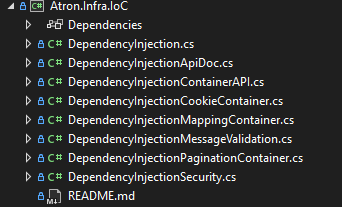
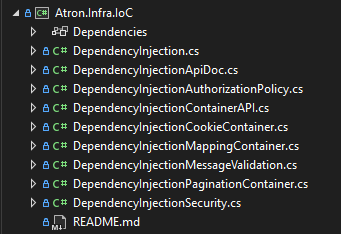
DOC: Correção das documentações e simplificação para facilitar a leitura

diff --git a/Framework/Communication/README.md b/Framework/Communication/README.md
@@ -1,58 +1,22 @@
 # Projeto Communication
 
 O projeto **Communication** é responsável por gerenciar a comunicação com APIs externas
-<br> e por lidar com o tratamento de respostas de APIs. <br>
+e por lidar com o tratamento de respostas de APIs.
+
 Ele é estruturado em diferentes pastas, cada uma com responsabilidades específicas para manter a modularidade e clareza do código.
 
-## Estrutura do Projeto
+## Estrutura de Pastas
 
-### 1. Extensions
-Contém classes de métodos de extensão que auxiliam na manipulação de dados de resposta da API.
+* **`Interfaces`:** pastas que define os contratos que serão acessados por outros projetos
 
-- **CommunicationExtensions.cs**: Classe que contém métodos de extensão para manipular listas de respostas da API. <br>
-<br> Exemplo de método:
-  - `HasErrors()`: Verifica se a lista de respostas contém algum erro.
+<br>
 
-### 2. Interfaces
-Define contratos para a comunicação e operações da API. A pasta está dividida em duas subpastas:
+* **`Models`:** Define os modelos que serão utilizados nos processos de comunicação
 
-#### a. Interfaces/Services
-Contém a interface para serviços de comunicação que lidam com as respostas da API.
+<br>
 
-- **ICommunicationService.cs**: Define métodos para adicionar e obter conteúdos de resposta da API. <br>
-<br> Métodos principais incluem:
-  - `AddResponseContent(ResultResponseDTO resultResponse)`: Adiciona uma resposta.
-  - `AddResponseContent(List<ResultResponseDTO> resultResponses)`: Adiciona múltiplas respostas.
-  - `GetResultResponses()`: Retorna todas as respostas armazenadas.
+* **`Security`:**  Define as classes de segurança para tokenização, autenticação e autorização
 
-#### b. Interfaces
-Contém interfaces que lidam com operações do cliente da API.
+<br>
 
-- **IApiClient.cs**: Define operações básicas para interagir com APIs usando diferentes verbos HTTP:
-  - `GetAsync(string uri)`: Executa uma operação de GET.
-  - `PostAsync(string uri, string content)`: Executa uma operação de POST.
-  - `PutAsync(string uri, string parameter, string content)`: Executa uma operação de PUT.
-  - `DeleteAsync(string uri, string codigo)`: Executa uma operação de DELETE.
-
-### 3. Models
-Contém classes que representam modelos de comunicação com a API.
-
-- **ApiClient.cs**: Implementa a interface `IApiClient` e gerencia a lógica de comunicação HTTP com a API, incluindo serialização de respostas e tratamento de exceções. <br>
-<br> Principais métodos implementados:
-  - `GetAsync()`, `PostAsync()`, `PutAsync()`, `DeleteAsync()`: Para operações CRUD.
-  - `FillResultResponse(HttpResponseMessage response)`: Método auxiliar para preencher respostas a partir de respostas HTTP.
-
-### 4. Services
-Implementações concretas dos serviços que gerenciam a comunicação e o tratamento de respostas da API.
-
-- **CommunicationService.cs**: Implementa a interface `ICommunicationService`. Esta classe é responsável por gerenciar a lista de respostas de uma API, incluindo métodos para adicionar novas respostas e obter a lista completa de respostas. <br>
-<br> Métodos principais:
-  - `AddResponseContent(ResultResponseDTO resultResponse)`: Adiciona uma única resposta à lista.
-  - `AddResponseContent(List<ResultResponseDTO> resultResponses)`: Adiciona uma lista de respostas.
-  - `GetResultResponses()`: Retorna todas as respostas armazenadas.
-
-## Resumo
-
-A arquitetura do projeto **Communication** está organizada em termos de separação de responsabilidades. As interfaces definem os contratos para os serviços de comunicação e operações da API, enquanto as implementações nas pastas `Services` e `Models` lidam com a lógica de negócios concreta. A utilização de métodos de extensão em `Extensions` oferece funcionalidade adicional para o gerenciamento de respostas de API.
-
-Essa estrutura modular facilita a manutenção e a expansão do código, garantindo que novas funcionalidades possam ser adicionadas sem impactar significativamente o sistema existente.
+* **`Services`:** Define os serviços que serão implementados pelos contratos

diff --git a/Framework/ExternalServices/README.md b/Framework/ExternalServices/README.md
@@ -3,82 +3,12 @@
 O projeto `External Services` é responsável pela implementação de serviços externos para manipulação dos módulos.
 As interfaces definem os contratos e os serviços implementam a lógica de integração com APIs externas.
 
-## Estrutura do Projeto
+Esse projeto depende das interfaces disponibilizadas pelo projeto _Communication_.
 
-### Interfaces
+## Estrutura de Pastas
 
-#### 1. `IApiRouteExternalService`
+* **`Interfaces`:**  Interfaces genéricas para comunicação com o projeto de Web Api e Web View do Razor
 
-- **Descrição**: Interface dos processos e fluxos do módulo de rotas da API.
-- **Métodos**:
-  - `Cadastrar(ApiRoute route, string rotaDoConnect)`: Método para cadastrar uma rota.
-  - `ObterRotas(string rotaPrincipal)`: Método para obter todas as rotas.
-
-#### 2. `IExternalMessageService`
-
-- **Descrição**: Interface de acesso ao serviço de mensagens externas.
-- **Propriedades**:
-  - `List<ResultResponseDTO> ResultResponses`: Lista de respostas de resultados.
-
-#### 3. `ICargoExternalService`
-
-- **Descrição**: Interface dos processos e fluxos do módulo de Cargos.
-- **Métodos**:
-  - `Atualizar(string codigo, CargoDTO cargoDTO)`: Atualiza um cargo existente.
-  - `Criar(CargoDTO cargoDTO)`: Cria um novo cargo.
-  - `ObterTodos()`: Obtém todos os cargos.
-  - `Remover(string codigo)`: Remove um cargo por código.
-
-#### 4. `IDepartamentoExternalService`
-
-- **Descrição**: Interface dos processos e fluxos do módulo de Departamentos.
-- **Métodos**:
-  - `ObterTodos()`: Obtém todos os departamentos.
-  - `Criar(DepartamentoDTO departamento)`: Cria um novo departamento.
-  - `Atualizar(string codigo, DepartamentoDTO departamentoDTO)`: Atualiza um departamento existente.
-  - `Remover(string codigo)`: Remove um departamento por código.
-
-#### 5. `IUsuarioExternalService`
-
-- **Descrição**: Interface dos processos e fluxos do módulo de Usuários.
-- **Métodos**:
-  - `Criar(UsuarioDTO usuarioDTO)`: Cria um novo usuário.
-  - `ObterTodos()`: Obtém todos os usuários.
-
-### Implementações de Serviços
-
-#### 1. `ApiRouteExternalService`
-
-- **Descrição**: Implementação dos processos do módulo de rotas da API.
-- **Métodos**:
-  - `Cadastrar(ApiRoute route, string rotaDoConnect)`: Serializa a rota e faz uma requisição POST para cadastrar.
-  - `ObterRotas(string rotaPrincipal)`: Faz uma requisição GET para obter todas as rotas.
-
-#### 2. `CargoExternalService`
-
-- **Descrição**: Implementação dos processos do módulo de cargos.
-- **Métodos**:
-  - `Criar(CargoDTO cargoDTO)`: Serializa o cargo e faz uma requisição POST para criar.
-  - `ObterTodos()`: Faz uma requisição GET para obter todos os cargos.
-  - `Atualizar(string codigo, CargoDTO cargoDTO)`: Atualiza o cargo com base no código.
-  - `Remover(string codigo)`: Remove um cargo com base no código.
-
-#### 3. `DepartamentoExternalService`
-
-- **Descrição**: Implementação dos processos do módulo de departamentos.
-- **Métodos**:
-  - `Criar(DepartamentoDTO departamento)`: Serializa o departamento e faz uma requisição POST para criar.
-  - `ObterTodos()`: Faz uma requisição GET para obter todos os departamentos.
-  - `Atualizar(string codigo, DepartamentoDTO departamentoDTO)`: Atualiza o departamento com base no código.
-  - `Remover(string codigo)`: Remove um departamento com base no código.
-
-#### 4. `UsuarioExternalService`
-
-- **Descrição**: Implementação dos processos do módulo de usuários.
-- **Métodos**:
-  - `Criar(UsuarioDTO usuarioDTO)`: Serializa o usuário e faz uma requisição POST para criar.
-  - `ObterTodos()`: Faz uma requisição GET para obter todos os usuários.
-
-## Resumo
-
-O projeto `ExternalServices` é uma parte crítica da aplicação, pois lida com integrações externas e manipulação de dados de forma eficiente e organizada. Cada serviço é responsável por um módulo específico, garantindo assim uma separação clara de responsabilidades e facilitando a manutenção e expansão do código.
+<br>
+ 
+* **`Services`:** Implementações das classes genéricas das interfaces 

diff --git a/Framework/Shared/README.md b/Framework/Shared/README.md
@@ -4,38 +4,26 @@ A estrutura do projeto segue um padrão de camadas, com o objetivo de promover a
 
 A camada Shared contém elementos comuns a diversas partes do sistema.
 
- **`DTO`:**
-  * Descrição dos Data Transfer Objects (DTOs) utilizados para transportar dados entre as camadas.
-    * **PageInfoDTO:** Contém informações sobre a paginação.
-    * **ResultResponseDTO:** Representa uma resposta genérica do sistema.
-        * **`API`:**
-            * **AppSettingsConfigShared.cs:** Configurações da aplicação compartilhadas.
-            * **RotaDeAcesso.cs:** Definição das rotas de acesso.
-            * **RotasFixasConfig.cs:** Configurações de rotas fixas.
+## Estrutura de Pastas:
+
+ * **`DTO`:** Descrição dos Data Transfer Objects (DTOs) utilizados para transportar dados entre as camadas.
+
 <br>
             
-**`Enums`:**
-  * **ResultResponseLevelEnum:** Define os níveis de resposta (sucesso, falha, etc.).
+* **`Enums`:** Enumeradores utilizados de forma global
   
 <br>
 
-**`Extensions`:**
-  * **EnumExtensions.cs:** Extensões para a classe Enum.
-  * **HttpResponseMessageExtensions.cs:** Extensões para a classe HttpResponseMessage.
+* **`Extensions`:** Classes de extensão para reutilização de código e centralização de funcionalidades
 
  <br>
 
-**`Interfaces`:**
-  * **IPaginationService:** Define o contrato para o serviço de paginação.
-  * **IResultResponseService:** Define o contrato para o serviço de resposta.
+* **`Interfaces`:** Defini os contratos que serão utilizados de forma abstraída
 
 <br>
 
-**`Models`:**
-  * **ResultResponseModel:** Representa o modelo de dados para a resposta do sistema.
+* **`Models`:** Modelos de objeto que serão utilizados nos processos internos
 
 <br>
 
-**`Services`:**
-  * **PaginationService:** Implementação do serviço de paginação.
-  * **ResultResponseService:** Implementação do serviço de resposta.
+* **`Services`:** Serviços que realizam as operações básicas do sistema como filtragem, mapeamento de objetos, notificações entre outros.
